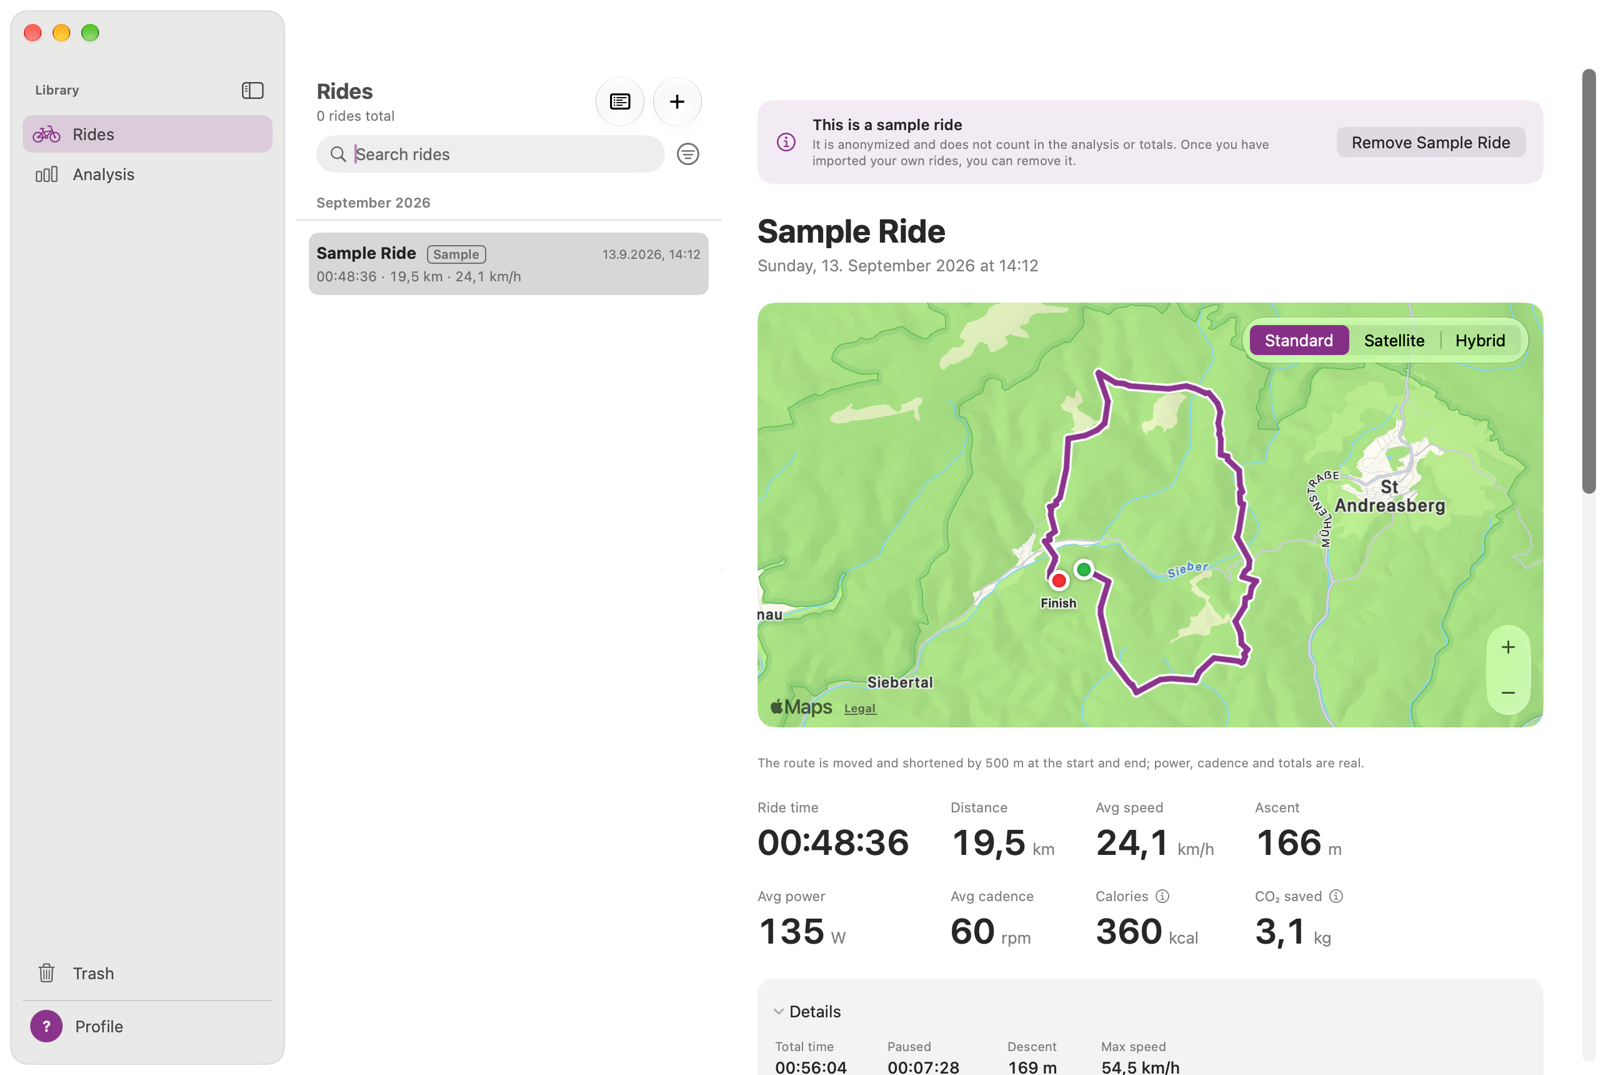
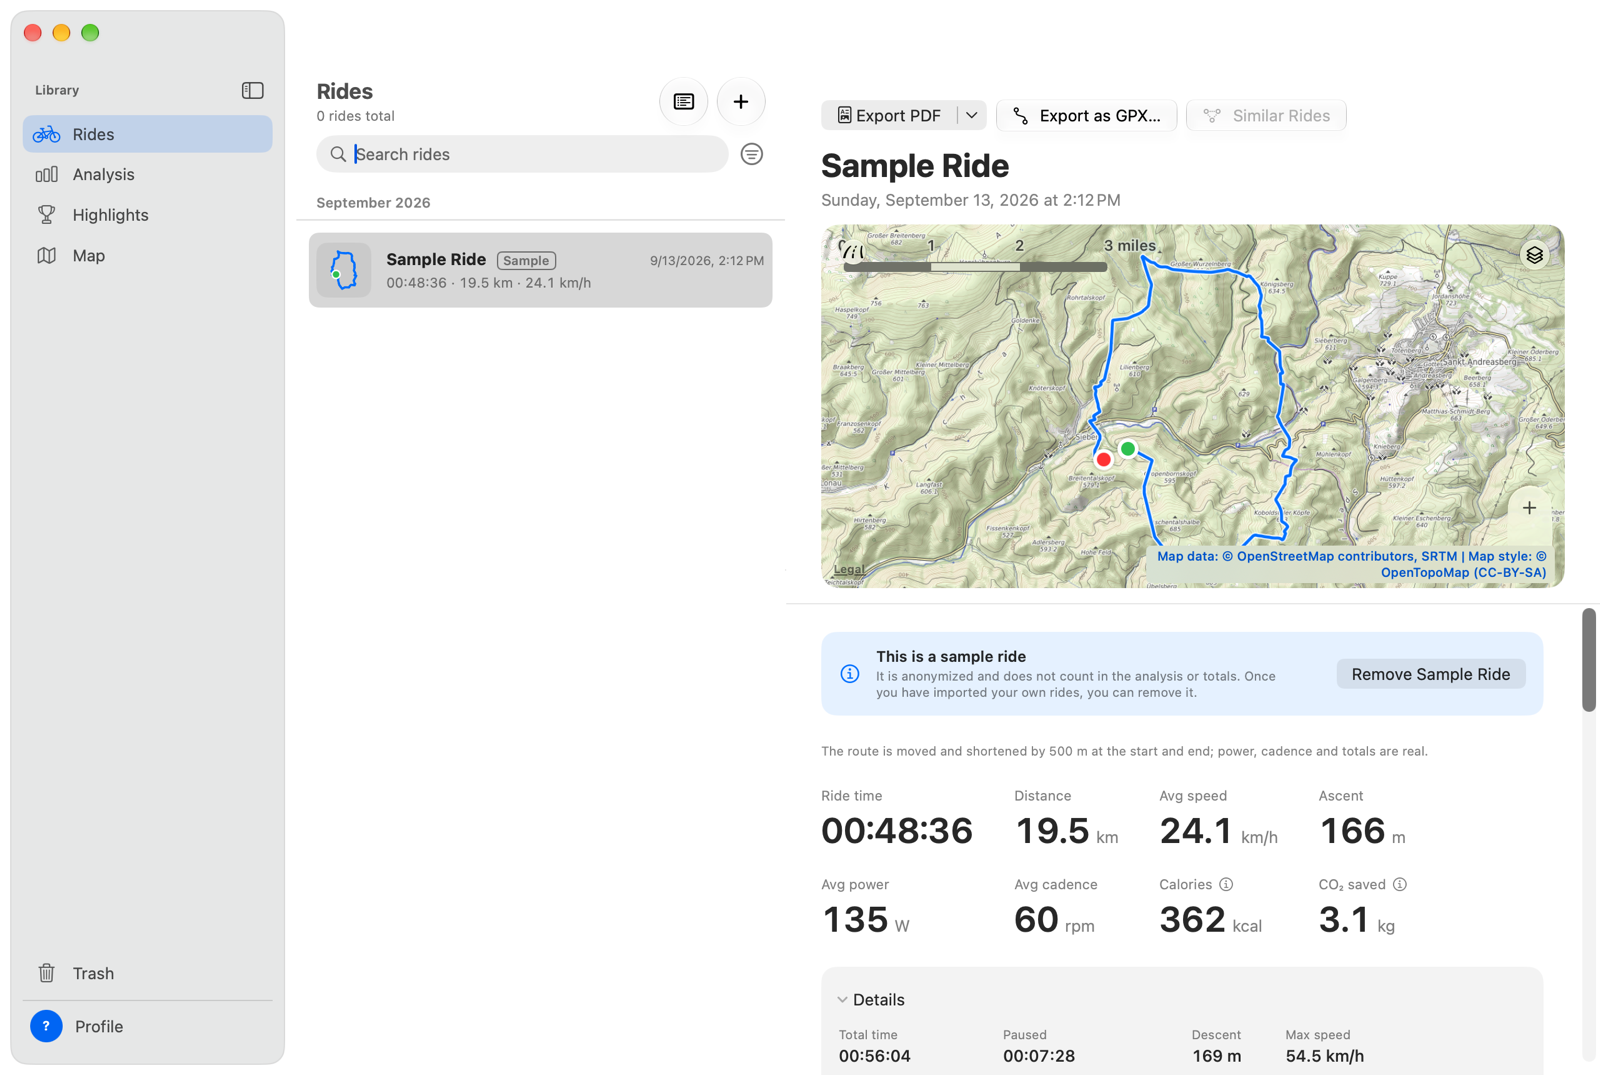
Handbuch-Bilder neu aufgenommen, neue Bilder für Ähnliche Fahrten, Strecken und Profil (B-179)
Alle Bilder in docs/user-guide/images stammen aus der laufenden Demo-App (hell, DE und EN).
Neue Debug-Startargumente im Demo-Modus: Fenstergröße, Variation der Kopien, Filter ähnlicher Fahrten, gespeicherte Strecke.

diff --git a/App/DemoMode.swift b/App/DemoMode.swift
@@ -17,6 +17,10 @@ import WattspurKit
 /// `-bikesHintDone YES` hides the note "Set up your bikes" after the update to 1.5 (B-138).
 /// `-WattspurDemoBikes YES` adds two more bikes with the demo rides spread over them (B-134).
 /// `-WattspurDemoGoals YES` adds a weekly, a monthly and a yearly goal (B-053).
+/// `-WattspurDemoVariety YES` makes the copies slightly different in time, speed and power (older = slower), so a history has a trend (B-179).
+/// `-WattspurDemoSize 1100x740` sets the size of the main window in points (B-179).
+/// `-WattspurDemoSimilar YES` opens "Similar rides" for "Demo 1" with no ride selected, i.e. its history (B-179).
+/// `-WattspurDemoRoute "Commute"` saves the route of "Demo 1" under that name and shows it (B-179).
 /// `-WattspurDemoSelect "Demo 8"` selects that ride instead of the sample ride.
 /// `-WattspurDemoImport "/path/a.fit,/path/b.gpx"` imports these files into the demo library, in that
 /// order, like a drop in the list (B-145): to try GPX rides without touching the real library.
@@ -27,6 +31,13 @@ enum DemoMode {
     static var window: String? { UserDefaults.standard.string(forKey: "WattspurDemoWindow") }
     /// "new" or "edit": opens the bike editor in the profile.
     static var editor: String? { UserDefaults.standard.string(forKey: "WattspurDemoEditor") }
+    static var size: CGSize? {
+        guard let text = UserDefaults.standard.string(forKey: "WattspurDemoSize") else { return nil }
+        let parts = text.split(separator: "x").compactMap { Double($0) }
+        return parts.count == 2 ? CGSize(width: parts[0], height: parts[1]) : nil
+    }
+    static var similar: Bool { UserDefaults.standard.bool(forKey: "WattspurDemoSimilar") }
+    static var routeName: String? { UserDefaults.standard.string(forKey: "WattspurDemoRoute") }
     static var section: String? { UserDefaults.standard.string(forKey: "WattspurDemoSection") }
 
     /// The sample ride, selected in the list on launch.
@@ -81,11 +92,24 @@ enum DemoMode {
         guard count > 0, let url = Bundle.main.url(forResource: "SampleRide", withExtension: "fit"),
               let data = try? Data(contentsOf: url) else { return }
         let library = RideLibrary(context: context)
+        let varied = UserDefaults.standard.bool(forKey: "WattspurDemoVariety")
         for week in 1...count {
             guard let copy = try? FITAnonymizer(latitudeOffset: 0, longitudeOffset: 0, trimDistance: 0, weeks: -week)
                 .anonymize(data) else { continue }
             library.importFile(data: copy, fileName: "Demo \(week).fit")
         }
+        guard varied else { return }
+        // The older, the slower, with some wobble, so that the history shows a trend.
+        let wobble = [0.02, -0.03, 0.04, -0.01, 0.03, -0.04, 0.01, -0.02]
+        for ride in (try? context.fetch(FetchDescriptor<Ride>())) ?? [] {
+            guard let week = Int(ride.name.dropFirst(5)), ride.name.hasPrefix("Demo ") else { continue }
+            let factor = 1 + 0.012 * Double(week) + wobble[week % wobble.count]
+            ride.timerTime *= factor
+            ride.averageSpeed = ride.distance / ride.timerTime
+            ride.averagePower = ride.averagePower.map { Int(Double($0) / factor) }
+            ride.averageCadence = ride.averageCadence.map { Int(Double($0) / (1 + (factor - 1) / 2)) }
+        }
+        try? context.save()
     }
 }
 #endif

diff --git a/App/ContentView.swift b/App/ContentView.swift
@@ -297,6 +297,15 @@ struct ContentView: View {
         guard DemoMode.isOn else { return }
         if let id = DemoMode.rideID { selectedRideIDs = [id] }
         NSApplication.shared.activate()
+        if let size = DemoMode.size {
+            // The window comes up with its stored frame; set ours a moment later.
+            Task {
+                try? await Task.sleep(for: .seconds(1))
+                let windows = NSApplication.shared.windows.filter(\.isVisible)
+                windows.max(by: { $0.frame.width < $1.frame.width })?
+                    .setFrame(NSRect(x: 150, y: 150, width: size.width, height: size.height), display: true)
+            }
+        }
         switch DemoMode.section {
         case "analysis"?: section = .analysis
         case "highlights"?: section = .highlights
@@ -310,6 +319,20 @@ struct ContentView: View {
         case "settings"?: openSettings()
         case let id?: openWindow(id: id)
         case nil: break
+        }
+        guard DemoMode.similar || DemoMode.routeName != nil else { return }
+        Task {
+            // The routes are compared by their overview route, which the import prepares in the background.
+            await sharedLibrary.prepareOverviewRoutes()
+            let rides = (try? sharedLibrary.context.fetch(FetchDescriptor<Ride>())) ?? []
+            guard let ride = rides.first(where: { $0.name == "Demo 1" }) else { return }
+            section = .rides
+            selectedRideIDs = []
+            if let name = DemoMode.routeName, let group = sharedLibrary.addRouteGroup(from: ride, name: name) {
+                showRoute(group)
+            } else {
+                similarFilter = SimilarRidesFilter(referenceID: ride.id, threshold: RouteSimilarity.clampedThreshold(similarThreshold))
+            }
         }
     }
     #endif

diff --git a/docs/BACKLOG.md b/docs/BACKLOG.md
@@ -384,7 +384,7 @@ Mit Nils am 2.11.2026 festgelegt: ein kleines Folgerelease zu 1.8.1, nur Fehler 
 |---|---|---|---|
 | B-184 | **Bug:** Pendelfahrt fehlt bei den ähnlichen Fahrten (Beschreibung und Lösung `max(200 m, 2 % der Streckenlänge)` siehe Eintrag in v1.7; den Wert von 2 % vorher an der Bibliothek prüfen, Tests in `RouteSimilarity` für kurze und lange Strecken) | S | ☑ |
 | B-203 | **Rekorde bei Steigung und Gefälle glätten** (Nachbesserung zu B-202): Bei GPX-Dateien ohne Barometer rauscht die Höhe, und `RideTrack.steepestGrades()` kann einen unechten Rekord setzen. Vorschlag: Höhe vor der Rechnung mit einem Medianfilter über wenige Punkte glätten und Werte über etwa 30 % nicht zählen; die Anzeige im Diagramm (B-200) bleibt unverändert. Neu-Auswertung der Bestandsfahrten über `trackFiguresVersion`. Tests mit verrauschter Höhe (Ausreißer setzt keinen Rekord), echte Steigung bleibt erhalten **Stand 2.11.2026:** umgesetzt in `RideTrack.steepestGrades()`: Höhe mit Median über 5 Punkte geglättet, Steigungen über 30 % (`maxPlausibleGrade`) zählen nicht; `TrackFigures.version` 2 → 3, damit die Bestandsfahrten im Hintergrund neu gerechnet werden. Das Diagramm (B-200) bleibt unverändert. Tests mit Ausreißern und Rauschen, echte Steigung bleibt. Nicht gemessen: Wirkung auf die echten Rekorde der Bibliothek | S–M | ☑ |
-| B-179 | Handbuch-Bilder aktualisieren (siehe v1.x – Hilfe & Profil); **optional**, nur wenn Zeit für die Aufnahmen mit der Demo-Bibliothek ist; **2.11.2026:** nicht in 1.8.2 (die Aufnahmen der laufenden App fehlen), bleibt offen | S | ☐ |
+| B-179 | Handbuch-Bilder aktualisieren (siehe v1.x – Hilfe & Profil); **optional**, nur wenn Zeit für die Aufnahmen mit der Demo-Bibliothek ist; **2.11.2026:** nicht in 1.8.2 (die Aufnahmen der laufenden App fehlen); **erledigt 2.11.2026** (Doku, kein Release): alle Bilder neu aufgenommen, dazu Ähnliche Fahrten mit Verlauf, gespeicherte Strecke, Vorschlag und Profil | S | ☑ |
 | – | Release 1.8.2: Version, Changelog, Handbuch EN/DE, `ARCHITECTURE.md`, DMG, Tag | S | ☐ |
 
 **Bewusst nicht in 1.8.2:**
@@ -455,7 +455,7 @@ Von Nils am 27.10.2026 zurückgestellt, kommt nach 1.8 und 1.9. Zuerst Artboard 
 | B-082 | Erklärung der Kennzahlen und Formeln im Handbuch (DOC-03); erledigt mit B-080 | S | ☑ |
 | B-083 | FAQ und Fehlerbehebung (DOC-05); erledigt mit B-080 | S | ☑ |
 | B-084 | Hilfe-Menü mit Link zum Handbuch und Hinweise an leeren Ansichten (DOC-06) **Stand 26.10.2026 (1.7.1):** umgesetzt. Menü Hilfe: Handbuch (⌘?), Fahrten importieren, Fragen und Fehlerbehebung, Versionshinweise; Sprache der App (de/en); Link „Export aus der Flow-App“ in der leeren Fahrtenliste. Die Seiten liegen online im Repository, nichts wird mitgeliefert | S | ☑ |
-| B-179 | **Handbuch-Bilder aktualisieren** (Bug von Nils 26.10.2026, nicht dringend): `docs/user-guide/images/{de,en}/` (`main`, `import`, `settings`, `setup`) stammen vom 20.10.2026 und zeigen die Oberfläche vor Profil, Bikes, GPX, Ähnlichen Strecken und gespeicherten Strecken. Neu aufnehmen mit der Demo-Bibliothek (hell, DE+EN), dazu Bilder für Chip, Verlauf und Strecken | S | ☐ |
+| B-179 | **Handbuch-Bilder aktualisieren** (Bug von Nils 26.10.2026, nicht dringend): `docs/user-guide/images/{de,en}/` (`main`, `import`, `settings`, `setup`) stammen vom 20.10.2026 und zeigen die Oberfläche vor Profil, Bikes, GPX, Ähnlichen Strecken und gespeicherten Strecken. Neu aufnehmen mit der Demo-Bibliothek (hell, DE+EN), dazu Bilder für Chip, Verlauf und Strecken. **Stand 2.11.2026: erledigt** (`similar`, `route`, `suggestion`, `profile` neu; `main`, `setup`, `import`, `settings` ersetzt; in `04-views` und `07-profile-and-bikes` eingebunden; dafür drei Debug-Startargumente im Demo-Modus) | S | ☑ |
 | B-085 | Profil-Daten exportieren und löschen (ACC-05) | M | ☐ |
 
 ## v1.x – Komfort & Karten

diff --git a/docs/user-guide/de/04-views.md b/docs/user-guide/de/04-views.md
@@ -20,6 +20,9 @@ Das Fenster hat drei Teile: links die Seitenleiste, in der Mitte die Fahrtenlist
 
 ## Ähnliche Fahrten
 Pendelstrecke oder Lieblingsrunde: Wattspur findet die Fahrten, die denselben Weg genommen haben.
+
+![Ähnliche Fahrten: Chip über der Liste und Verlauf rechts](../images/de/similar.png)
+
 - **Einstieg:** Rechtsklick auf eine Fahrt › **Ähnliche Fahrten zeigen** oder der Knopf **Ähnliche Fahrten** im Tour-Detail. Das geht nur bei Fahrten mit Route; die Beispielfahrt, Fahrten im Papierkorb und die Teile einer zusammengefügten Fahrt zählen nicht.
 - **Die Liste** zeigt dann nur noch die Fahrten auf dieser Strecke, in jeder Zeile steht, wie ähnlich sie ist („97 %“). Die Fahrt, nach der du gefragt hast, steht oben und trägt ein Zielsymbol (Bezugsfahrt). ⇄ kennzeichnet eine Fahrt in Gegenrichtung.
 - **Der Chip** über der Liste nennt die Bezugsfahrt und die Zahl der Treffer („12 von 15“, wenn der Bike-, Quellen- oder Zeitraumfilter oder die Suche welche ausblenden). Darin:
@@ -33,12 +36,17 @@ Pendelstrecke oder Lieblingsrunde: Wattspur findet die Fahrten, die denselben We
 
 ## Gespeicherte Strecken
 Eine Strecke, die du immer wieder fährst, etwa der Weg zur Arbeit, kannst du unter einem Namen speichern. Dann ist sie einen Klick entfernt, und neue Fahrten auf ihr gehören von selbst dazu.
+
+![Hinweis „Wohl dieselbe Strecke“ über der Liste](../images/de/suggestion.png)
+
 - **Vorschlag:** Haben mindestens drei Fahrten dieselbe Strecke in derselben Richtung genommen und gehören noch zu keiner gespeicherten Strecke, steht über der Liste ein Hinweis: „Wohl dieselbe Strecke: 12 Fahrten“ mit dem Namen einer davon. **Als Strecke speichern …** öffnet das Fenster, **Nicht jetzt** blendet den Hinweis für diese Fahrten aus (er kommt erst für neue Fahrten wieder). Der Hinweis erscheint in der normalen Liste, ohne Suche und ohne „Ähnlich wie“. Wattspur speichert nie von allein eine Strecke.
 - **Strecke speichern** fragt nach dem Namen (zunächst der Name der Fahrt), der Ähnlichkeit und ob Fahrten in Gegenrichtung dazugehören, und zählt live mit, wie viele Fahrten auf der Strecke liegen. Du kannst auch am Chip speichern: **⋯ › Als Strecke speichern …**, solange „Ähnlich wie“ an ist.
 - **Benutzen:** Das Filter-Menü neben dem Suchfeld listet die **Gespeicherten Strecken** nach Namen. Eine Strecke ist ein Filter der Liste wie „Ähnlich wie“, mit demselben Chip („Strecke: Pendeln (12)“) und rechts dem Verlauf ihrer Fahrten. Der Regler und **Beide Richtungen** ändern die Strecke selbst und bleiben erhalten; **Ähnlichste** oder **Neueste** ist nur eine Ansicht.
 - **Menü ⋯ am Chip:** **Strecke umbenennen …**, **Strecke auflösen** (die Fahrten bleiben, ⌘Z holt die Strecke zurück) und die Liste der gespeicherten Strecken.
 - **Welche Fahrten dazugehören**, wird aus der Ähnlichkeit zur Strecke berechnet und nie je Fahrt gespeichert. Eine neue Fahrt auf der Strecke gehört von selbst dazu; nach einem Import sagt ein Hinweis es dir („Eine neue Fahrt liegt auf deiner Strecke „Pendeln““, mit **Strecke zeigen**). Löschst du die Fahrt, aus der eine Strecke entstanden ist, bleibt die Strecke.
 - **Im Tour-Detail** nennt die Zeile „Strecke: …“ unter dem Titel die Strecke der Fahrt; ein Klick listet ihre Fahrten. Der Knopf **Ähnliche Fahrten (12)** zeigt, wie viele andere Fahrten bei deiner Standard-Ähnlichkeit auf der Strecke dieser Fahrt liegen.
+
+![Gespeicherte Strecke „Pendeln“ mit Chip und Verlauf](../images/de/route.png)
 
 ## Fahrten vergleichen
 Der Vergleich zeigt 2 bis 4 Fahrten nebeneinander, rechts neben der Liste. Die in der Liste markierten Fahrten **sind** der Vergleich: Mit ⌘-Klick kommt eine weitere hinzu, ✕ über einer Spalte nimmt sie heraus, ↗ zeigt nur diese Fahrt. **Fertig** (Esc) führt zurück zur Auswahl.

diff --git a/docs/user-guide/en/04-views.md b/docs/user-guide/en/04-views.md
@@ -20,6 +20,9 @@ The window has three parts: the sidebar on the left, the ride list in the middle
 
 ## Similar rides
 A commute or a favourite loop: Wattspur finds the rides that took the same way.
+
+![Similar rides: chip above the list and history on the right](../images/en/similar.png)
+
 - **Start:** right-click a ride › **Show Similar Rides**, or the **Similar Rides** button in the ride detail. This works for rides with a route; the sample ride, rides in the trash and the parts of a merged ride do not count.
 - **The list** then shows only the rides on this route, and every row says how similar it is (“97 %”). The ride you asked about stands on top with a target symbol (the reference ride). ⇄ marks a ride in the opposite direction.
 - **The chip** above the list names the reference ride and the number of rides (“12 of 15” when the bike, source or period filter or the search hide some). In it:
@@ -33,12 +36,17 @@ A commute or a favourite loop: Wattspur finds the rides that took the same way.
 
 ## Saved routes
 A route you ride again and again, for example the way to work, can be saved under a name. Then it is one click away, and new rides on it join without you doing anything.
+
+![The note "Probably the same route" above the list](../images/en/suggestion.png)
+
 - **Suggestion:** when at least three rides took the same route in the same direction and belong to no saved route yet, a hint appears above the list: “Probably the same route: 12 rides” with the name of one of them. **Save as Route…** opens the dialog, **Not Now** hides the hint for these rides (it comes back only for new ones). The hint shows in the plain list, without a search and without “Similar to”. Wattspur never saves a route by itself.
 - **Save Route** asks for the name (the name of the ride as a start), the similarity and whether rides in the other direction belong to it, and counts live how many rides are on the route. You can also save from the chip: **⋯ › Save as Route…** while “Similar to” is on.
 - **Use it:** the filter menu next to the search field lists the **Saved Routes** by name. A route is a filter of the list like “Similar to”, with the same chip (“Route: Commute (12)”) and the history of its rides on the right. The slider and **Both directions** change the route itself and are kept; **Most similar** or **Newest** is only a view.
 - **Chip menu ⋯:** **Rename Route…**, **Dissolve Route** (the rides stay, ⌘Z brings the route back) and the list of saved routes.
 - **Which rides belong to it** is calculated from the similarity to the route, never stored per ride. A new ride on the route joins by itself; after an import a note says so (“A new ride is on your route “Commute””, with **Show Route**). If you delete the ride a route was made from, the route stays.
 - **In the ride detail** the line “Route: …” under the title names the route of the ride; a click lists its rides. The **Similar Rides (12)** button shows how many other rides are on the route of this ride at your default similarity.
+
+![Saved route "Commute" with chip and history](../images/en/route.png)
 
 ## Comparing rides
 The comparison shows 2 to 4 rides side by side, next to the list. The rides selected in the list **are** the comparison: ⌘-click another ride to add it, ✕ above a column removes it, and ↗ shows only that ride. **Done** (Esc) returns to the selection.

diff --git a/docs/learning/10-handbuch.md b/docs/learning/10-handbuch.md
@@ -27,6 +27,12 @@ Story: B-080 (DOC-01, DOC-02, DOC-03, DOC-05, NFR-12)
   - MapKit zeichnet nur in sichtbaren Fenstern. Deshalb startet das Skript die App mit `open -a`, und sie holt sich im Demo-Modus selbst nach vorn.
   - Weil die App dabei den Fokus bekommt, solange niemand tippen.
 
+## Neu aufgenommen am 2.11.2026 (B-179)
+- Alle Bilder stammen aus der laufenden Demo-App (hell, DE und EN), 1600 px breit; neu sind `similar` (Chip und Verlauf der ähnlichen Fahrten), `route` (gespeicherte Strecke), `suggestion` (Hinweis „Wohl dieselbe Strecke“) und `profile` (Bikes).
+- Neue Debug-Startargumente: `-WattspurDemoSize 1280x860` (Fenstergröße, ohne Bedienungshilfen-Rechte nicht von außen setzbar), `-WattspurDemoVariety YES` (die Kopien der Beispielfahrt unterscheiden sich in Zeit und Leistung, damit der Verlauf einen Trend zeigt), `-WattspurDemoSimilar YES` und `-WattspurDemoRoute "Name"` (öffnen den Filter bzw. speichern und zeigen die Strecke). Beispiel: `-WattspurDemoRides 8 -WattspurDemoVariety YES -WattspurDemoSimilar YES`.
+- Die Einstellungen öffnen auf dem zuletzt gewählten Reiter: `-com_apple_SwiftUI_Settings_selectedTabIndex 0` wählt „Allgemein“. Mit `-similarRoutesThreshold 0.9` zeigt der Regler den Standard statt des eigenen Werts.
+- Beim Aufnehmen schreibt die Debug-App Fensterrahmen in die echten Einstellungen der App-Kennung; das ist harmlos, ändert aber die Fenstergröße der installierten App.
+
 ## Screenshots neu machen
 ```bash
 xcodegen generate && xcodebuild -scheme Wattspur -configuration Debug -derivedDataPath .build/xcode build

diff --git a/docs/user-guide/de/07-profile-and-bikes.md b/docs/user-guide/de/07-profile-and-bikes.md
@@ -2,6 +2,8 @@
 
 Wattspur führt ein **Profil** mit deinen Körperdaten und so viele **Bikes**, wie du hast. Jede Fahrt gehört zu einem Bike, so kannst du jedes Bike für sich ansehen. Alles bleibt auf deinem Mac.
 
+![Profil mit zwei Bikes](../images/de/profile.png)
+
 ## Das Profil
 Wähle **Profil** unten in der Seitenleiste (⌘6).
 - **Du:** Name, Foto (freiwillig) und Körperdaten: Gewicht, Größe, Geburtsjahr und Geschlecht. Alles ist freiwillig und bleibt auf deinem Mac. Es wird für eine Kalorienschätzung „mit Profil“ gespeichert, die in einer späteren Version kommt; vorerst ändert es keine Zahl. Zahlen, die nicht stimmen können (ein Gewicht von 7 kg), werden nicht gespeichert.

diff --git a/docs/user-guide/en/07-profile-and-bikes.md b/docs/user-guide/en/07-profile-and-bikes.md
@@ -2,6 +2,8 @@
 
 Wattspur keeps one **profile** with your body data and as many **bikes** as you have. Every ride belongs to one bike, so you can look at each bike on its own. Everything stays on your Mac.
 
+![Profile with two bikes](../images/en/profile.png)
+
 ## The profile
 Choose **Profile** at the bottom of the sidebar (⌘6).
 - **You:** name, photo (optional), and body data: weight, height, year of birth and sex. All of it is optional and stays on your Mac. It is stored for a calorie estimate “with profile” that comes in a later version; for now it changes no number. Numbers that cannot be right (a weight of 7 kg) are not saved.
